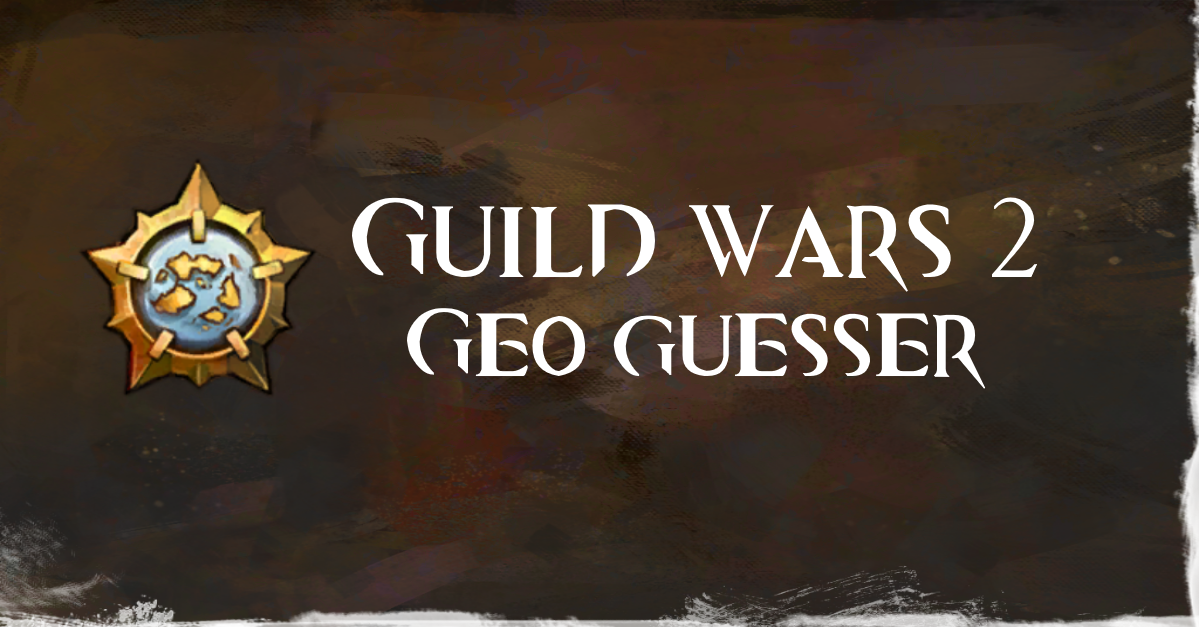
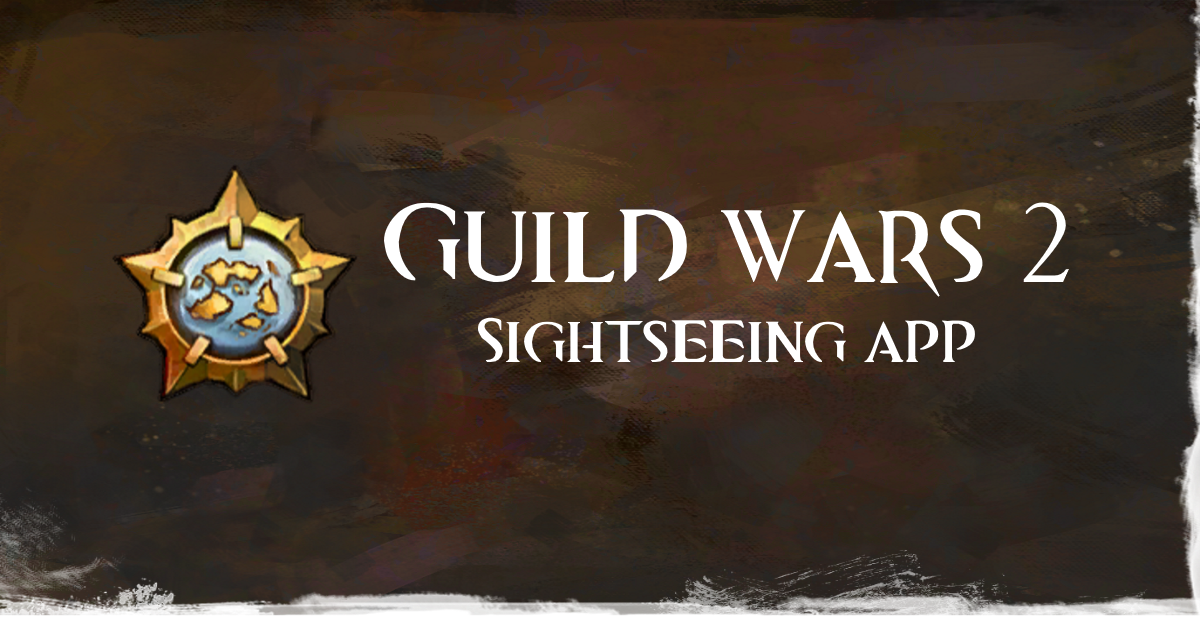
feat: Add preview image to marketing site

diff --git a/marketing/next-seo.config.js b/marketing/next-seo.config.js
@@ -5,7 +5,6 @@ const url = 'https://gw2-sightseeing.mael.tech'
 export default {
   title,
   description,
-  canonical: url,
   openGraph: {
     title,
     description,
@@ -13,5 +12,13 @@ export default {
     site_name: title,
     type: 'website',
     locale: 'en_GB',
+    images: [
+      {
+        url: `${url}/preview.png`,
+        width: 1200,
+        height: 630,
+        alt: 'Guild Wars 2 | Sightseeing App',
+      },
+    ],
   },
 }
